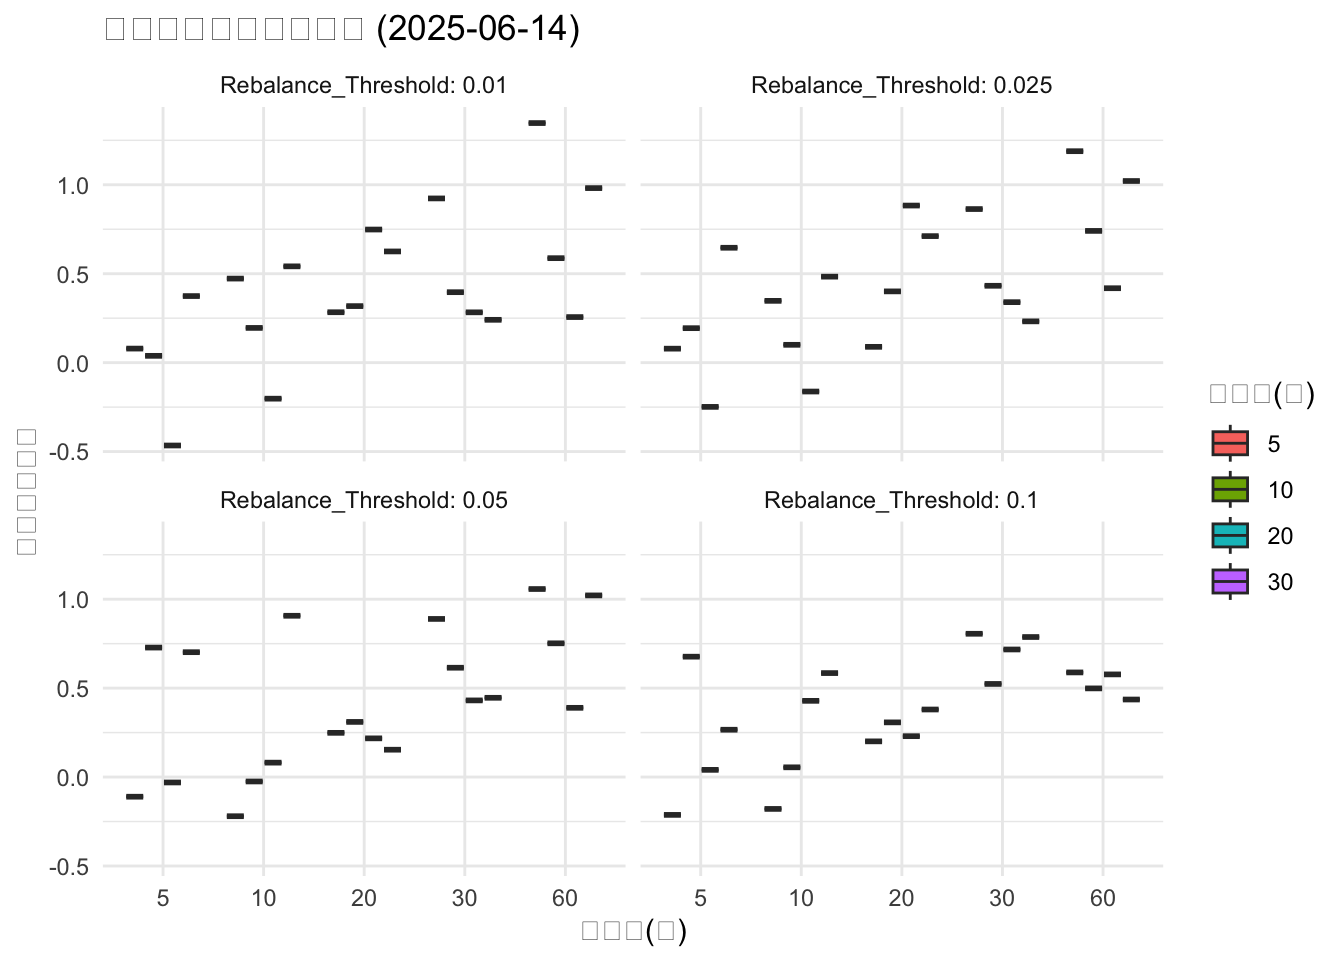
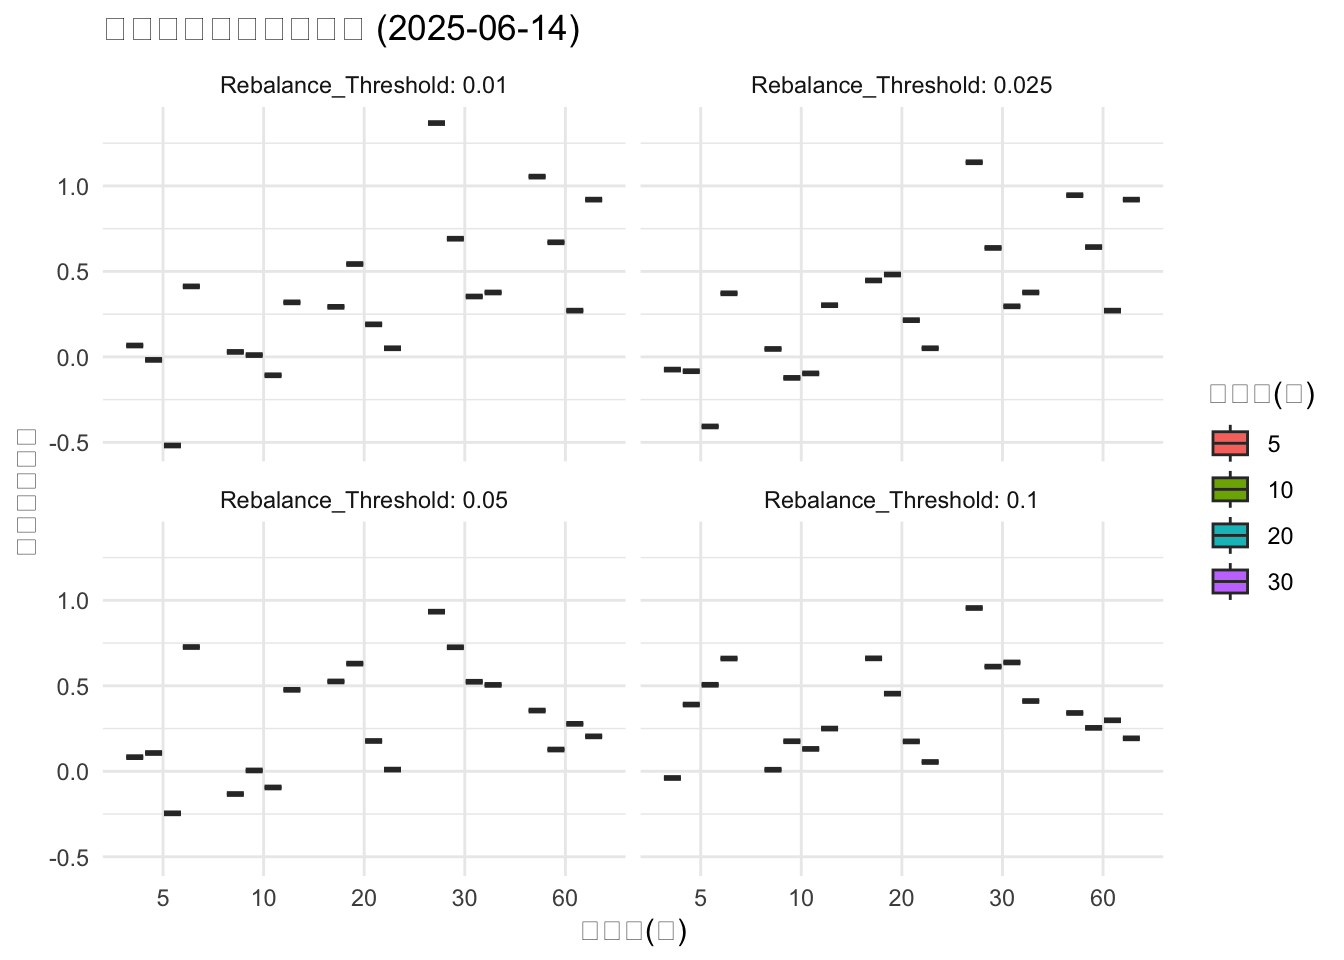
update newpost

diff --git a/content/post/momentum-rotation.md b/content/post/momentum-rotation.md
@@ -7,15 +7,15 @@ lead: null
 authorbox: false
 sidebar: false
 pager: false
+mathjax: true
 tags:
   - "R"
   - "动量"
   - "轮动策略"
 categories:
   - "量化投资"
-mathjax: true
 output:
-  html_document:
+  md_document:
     preserve_yaml: true
 ---
 
@@ -99,12 +99,17 @@ for (symbol in all_symbols) {
 
 ```
 ## Successfully downloaded AAPL 
-## Successfully downloaded MSFT 
+## Error downloading MSFT : Unable to import "MSFT".
+## Transferred a partial file [query2.finance.yahoo.com] 
 ## Successfully downloaded AMZN 
 ## Successfully downloaded TSLA 
 ## Successfully downloaded ARQT 
-## Successfully downloaded AVXL 
-## Successfully downloaded BPMC 
+## Successfully downloaded AVXL
+```
+
+```
+## Error downloading BPMC : Unable to import "BPMC".
+## cannot open the connection 
 ## Successfully downloaded CELZ
 ```
 
@@ -141,12 +146,10 @@ for (symbol in valid_symbols) {
 
 ```
 ## Successfully downloaded OOS data for AAPL 
-## Successfully downloaded OOS data for MSFT 
 ## Successfully downloaded OOS data for AMZN 
 ## Successfully downloaded OOS data for TSLA 
 ## Successfully downloaded OOS data for ARQT 
 ## Successfully downloaded OOS data for AVXL 
-## Successfully downloaded OOS data for BPMC 
 ## Successfully downloaded OOS data for CELZ
 ```
 
@@ -448,10 +451,10 @@ print(performance_metrics)
 
 ```
 ##                              Strategy Total_Return Sharpe_Ratio Max_Drawdown
-## X2022.12.30      Large Cap Buy & Hold    1.8775824    0.4884327    0.5331828
-## X2022.12.30.1    Small Cap Buy & Hold   -0.8534490   -0.6581043    0.9683605
-## X2022.12.30.2 Equal Weight Buy & Hold    0.5120667   -0.3795699    0.7173901
-## X2022.12.30.3       Momentum Rotation    7.8035737    0.3099696    0.6298531
+## X2022.12.30      Large Cap Buy & Hold    1.9073044    0.4189929    0.5876718
+## X2022.12.30.1    Small Cap Buy & Hold   -0.9055558   -0.6402837    0.9908844
+## X2022.12.30.2 Equal Weight Buy & Hold    0.5008743   -0.4441019    0.8079713
+## X2022.12.30.3       Momentum Rotation   70.1185521    0.6297609    0.6358316
 ```
 
 # 参数优化
@@ -523,7 +526,7 @@ print(paste(
 ```
 
 ```
-## [1] "最优参数组合: 回看期= 60  持有期= 5  阈值= 0.01  夏普比率= 1.347"
+## [1] "最优参数组合: 回看期= 30  持有期= 5  阈值= 0.01  夏普比率= 1.368"
 ```
 
 ``` r
@@ -755,10 +758,10 @@ print(oos_performance) # 输出策略比较结果
 
 ```
 ##                              Strategy Total_Return Sharpe_Ratio Max_Drawdown
-## X2023.12.29      Large Cap Buy & Hold    0.7708001    2.9047901    0.1693780
-## X2023.12.29.1    Small Cap Buy & Hold   -0.1367801   -0.4796014    0.6159451
-## X2023.12.29.2 Equal Weight Buy & Hold    0.3170100    0.6359367    0.3230760
-## X2023.12.29.3       Momentum Rotation    0.4791532    0.7933869    0.2934326
+## X2023.12.29      Large Cap Buy & Hold    0.8434508   2.80326400    0.1977551
+## X2023.12.29.1    Small Cap Buy & Hold   -0.3612198  -0.78700173    0.7411508
+## X2023.12.29.2 Equal Weight Buy & Hold    0.2411155   0.06721664    0.4347036
+## X2023.12.29.3       Momentum Rotation    0.9347272   1.21253810    0.4108214
 ```
 
 # 结论

diff --git a/content/post/kdj.md b/content/post/kdj.md
@@ -7,15 +7,15 @@ lead: null
 authorbox: false
 sidebar: false
 pager: false
+mathjax: true
 tags:
   - "R"
   - "KDJ"
   - "择时"
 categories:
   - "量化投资"
-mathjax: true
 output:
-  html_document:
+  md_document:
     preserve_yaml: true
 ---
 
@@ -74,12 +74,12 @@ head(AAPL)
 
 ```
 ##               Open    High     Low   Close    Volume Adjusted
-## 2018-01-02 42.5400 43.0750 42.3150 43.0650 102223600 40.42682
-## 2018-01-03 43.1325 43.6375 42.9900 43.0575 118071600 40.41978
-## 2018-01-04 43.1350 43.3675 43.0200 43.2575  89738400 40.60754
-## 2018-01-05 43.3600 43.8425 43.2625 43.7500  94640000 41.06986
-## 2018-01-08 43.5875 43.9025 43.4825 43.5875  82271200 40.91733
-## 2018-01-09 43.6375 43.7650 43.3525 43.5825  86336000 40.91262
+## 2018-01-02 42.5400 43.0750 42.3150 43.0650 102223600 40.34188
+## 2018-01-03 43.1325 43.6375 42.9900 43.0575 118071600 40.33487
+## 2018-01-04 43.1350 43.3675 43.0200 43.2575  89738400 40.52222
+## 2018-01-05 43.3600 43.8425 43.2625 43.7500  94640000 40.98358
+## 2018-01-08 43.5875 43.9025 43.4825 43.5875  82271200 40.83135
+## 2018-01-09 43.6375 43.7650 43.3525 43.5825  86336000 40.82666
 ```
 
 ``` r
@@ -95,12 +95,12 @@ summary(AAPL)
 ##  3rd Qu.:2022-01-20   3rd Qu.:146.36   3rd Qu.:148.00   3rd Qu.:145.15  
 ##  Max.   :2023-05-31   Max.   :182.63   Max.   :182.94   Max.   :179.12  
 ##      Close            Volume             Adjusted     
-##  Min.   : 35.55   Min.   : 35195900   Min.   : 33.87  
-##  1st Qu.: 52.03   1st Qu.: 76144000   1st Qu.: 49.73  
-##  Median :114.97   Median : 98135650   Median :111.96  
-##  Mean   :102.48   Mean   :112825725   Mean   :100.02  
-##  3rd Qu.:146.61   3rd Qu.:133535000   3rd Qu.:143.97  
-##  Max.   :182.01   Max.   :426510000   Max.   :178.65
+##  Min.   : 35.55   Min.   : 35195900   Min.   : 33.80  
+##  1st Qu.: 52.03   1st Qu.: 76144000   1st Qu.: 49.62  
+##  Median :114.97   Median : 98135650   Median :111.72  
+##  Mean   :102.48   Mean   :112825927   Mean   : 99.81  
+##  3rd Qu.:146.61   3rd Qu.:133535000   3rd Qu.:143.67  
+##  Max.   :182.01   Max.   :426510000   Max.   :178.27
 ```
 
 ## KDJ指标计算原理
@@ -2329,7 +2329,7 @@ print(combined_plot)
 ##   z     cells    name                grob
 ## 1 1 (2-2,1-1) arrange      gtable[layout]
 ## 2 2 (3-3,1-1) arrange      gtable[layout]
-## 3 3 (1-1,1-1) arrange text[GRID.text.216]
+## 3 3 (1-1,1-1) arrange text[GRID.text.232]
 ```
 
 ``` r

diff --git a/content/post/macd.md b/content/post/macd.md
@@ -7,6 +7,7 @@ lead: null
 authorbox: false
 sidebar: false
 pager: false
+mathjax: true
 tags:
   - "动量"
   - "轮动策略"
@@ -14,9 +15,8 @@ tags:
   - "R"
 categories:
   - "量化投资"
-mathjax: true
 output:
-  html_document:
+  md_document:
     preserve_yaml: true
 ---
 
@@ -105,7 +105,7 @@ summary(TSLA)
 ##  Min.   : 11.93   Min.   : 29401800   Min.   : 11.93  
 ##  1st Qu.: 21.50   1st Qu.: 77479900   1st Qu.: 21.50  
 ##  Median :125.58   Median :105881850   Median :125.58  
-##  Mean   :135.07   Mean   :134180816   Mean   :135.07  
+##  Mean   :135.07   Mean   :134181265   Mean   :135.07  
 ##  3rd Qu.:231.07   3rd Qu.:159549600   3rd Qu.:231.07  
 ##  Max.   :409.97   Max.   :914082000   Max.   :409.97
 ```
@@ -4135,7 +4135,7 @@ print(combined_plot)
 ##   z     cells    name                grob
 ## 1 1 (2-2,1-1) arrange      gtable[layout]
 ## 2 2 (3-3,1-1) arrange      gtable[layout]
-## 3 3 (1-1,1-1) arrange text[GRID.text.499]
+## 3 3 (1-1,1-1) arrange text[GRID.text.513]
 ```
 
 # 交易频率分析

diff --git a/content/post/chart-muti-stocks.md b/content/post/chart-muti-stocks.md
@@ -1,12 +1,13 @@
 ---
 title: "R软件与多股票波动性及相关性的可视化"
-author: "Ski/格物堂"
+author: "Ski"
 date: "2025-06-10 15:36:25"
 description: null
 lead: null
 authorbox: false
 sidebar: false
 pager: false
+mathjax: true
 tags:
   - "动量"
   - "轮动策略"
@@ -14,9 +15,8 @@ tags:
   - "R"
 categories:
   - "量化投资"
-mathjax: true
 output:
-  html_document:
+  md_document:
     preserve_yaml: true
 ---
 
@@ -278,10 +278,10 @@ print(volatility)
 ## # A tibble: 4 × 2
 ##   symbol volatility
 ##   <chr>       <dbl>
-## 1 NVDA       0.0330
-## 2 GOOGL      0.0193
-## 3 AAPL       0.0165
-## 4 MSFT       0.0152
+## 1 NVDA       0.0314
+## 2 GOOGL      0.0191
+## 3 AAPL       0.0161
+## 4 MSFT       0.0146
 ```
 
 ## 相关性分析

diff --git a/content/post/Inefficent-Market.md b/content/post/Inefficent-Market.md
@@ -7,14 +7,14 @@ lead: null
 authorbox: false
 sidebar: false
 pager: false
+mathjax: true
 tags:
   - "有效市场"
   - "并非有效的市场"
 categories:
   - "投资书籍"
-mathjax: true
 output:
-  html_document:
+  md_document:
     preserve_yaml: true
 ---
 
